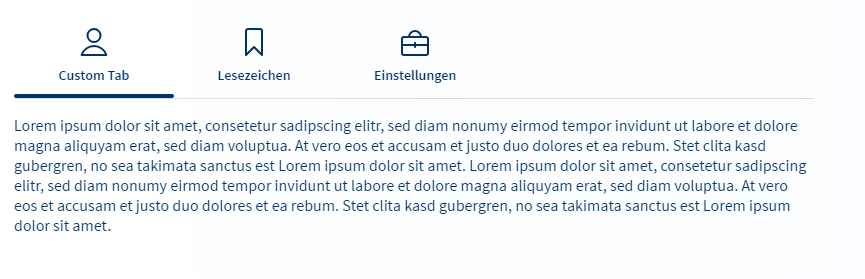
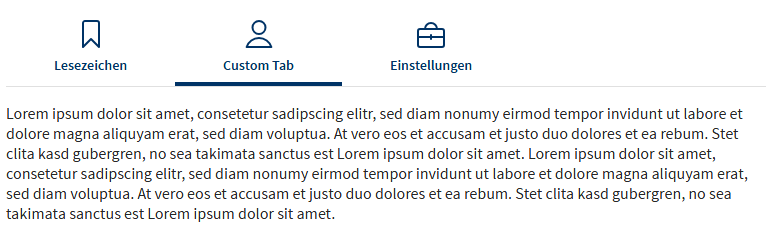
Issue #11: lux-tabs: Custom-Tabs in Kombination mit luxLazyLoading funktioniert nicht

diff --git a/projects/lux-components-wiki/Versions/v19/lux‐tabs-v19.md b/projects/lux-components-wiki/Versions/v19/lux‐tabs-v19.md
@@ -16,7 +16,7 @@
     - [1. Simple Tabs](#1-simple-tabs)
     - [2. Tabs mit Zahl](#2-tabs-mit-zahl)
     - [3. Tabs mit großen deaktivierten Icons](#3-tabs-mit-großen-deaktivierten-icons)
-    - [4. Tab in eigene Komponente auslagern](#4-tab-in-eigene-komponente-auslagern)
+    - [4. Tab in eigene Komponente (mit Lazy-Loading) auslagern](#4-tab-in-eigene-komponente-mit-lazy-loading-auslagern)
 
 ## Overview / API
 
@@ -180,7 +180,7 @@ Html
 </lux-tabs>
 ```
 
-### 4. Tab in eigene Komponente auslagern
+### 4. Tab in eigene Komponente (mit Lazy-Loading) auslagern
 
 ![Beispielbild 04](https://raw.githubusercontent.com/wiki/IHK-GfI/lux-components-workspace/Versions/v19/lux‐tabs-v19-img-04.png)
 
@@ -188,13 +188,13 @@ Html - Tabs
 
 ```html
 <lux-tabs>
-  <custom-tab></custom-tab>
-
   <lux-tab luxTitle="Lesezeichen" luxIconName="lux-interface-bookmark">
     <ng-template>
       <p>Lesezeichen</p>
     </ng-template>
   </lux-tab>
+
+  <custom-tab></custom-tab>
 
   <lux-tab
     luxTitle="Einstellungen"
@@ -211,6 +211,7 @@ Html - Custom Tab
 
 ```html
 <ng-template>
+  @if(isLoaded) {
   <p>
     Lorem ipsum dolor sit amet, consetetur sadipscing elitr, sed diam nonumy
     eirmod tempor invidunt ut labore et dolore magna aliquyam erat, sed diam
@@ -222,6 +223,11 @@ Html - Custom Tab
     clita kasd gubergren, no sea takimata sanctus est Lorem ipsum dolor sit
     amet.
   </p>
+  } @else {
+  <div>
+    Daten werden geladen...
+  </div>
+  }
 </ng-template>
 ```
 
@@ -244,28 +250,37 @@ import {
   styleUrls: ["./custom-tab.component.scss"],
   providers: [{ provide: LuxTabComponent, useExisting: CustomTabComponent }],
 })
-export class CustomTabComponent
-  extends LuxTabComponent
-  implements OnInit, AfterViewInit
+export class CustomTabComponent extends LuxTabComponent implements OnInit, AfterViewInit
 {
   @ViewChild(TemplateRef) myContentTemplate!: TemplateRef<any>;
 
-  constructor(
-    private cdr: ChangeDetectorRef,
-    public elementRef: ElementRef,
-  ) {
-    super();
-  }
+  isLoaded = false;
 
   ngOnInit() {
-    this.luxTitle = "Custom Tab";
-    this.luxIconName = "lux-interface-user-single";
+    // Angular (seit v17/v18) ruft die Lifecycle-Hooks (ngOnInit, ngAfterViewInit, etc.) für alle Komponenten auf,
+    // sobald sie instanziiert werden – auch wenn sie per *ngIf, *ngSwitch oder Lazy Loading noch nicht sichtbar sind.
+    // D.h. hier sollte kein Code stehen, der nur ausgeführt werden soll, wenn der Tab tatsächlich aktiviert bzw. angezeigt wird.
+    this.luxTitle = 'Beispiel 3';
+    this.luxTagIdHeader = 'tab-beispiel3-header';
+    this.luxTagIdContent = 'tab-beispiel3-content';
   }
 
   ngAfterViewInit() {
+    // Siehe Kommentar in ngOnInit()
+    this.contentTemplate = this.myContentTemplate;
+  }
+
+  override onTabActivated() {
+    if (!this.isLoaded) {
+      this.loadData();
+    }
+  }
+
+  private loadData() {
+    // Simuliere einen Backend-Aufruf
     setTimeout(() => {
-      this.contentTemplate = this.myContentTemplate;
-    });
+      this.isLoaded = true;
+    }, 5000);
   }
 }
 ```
